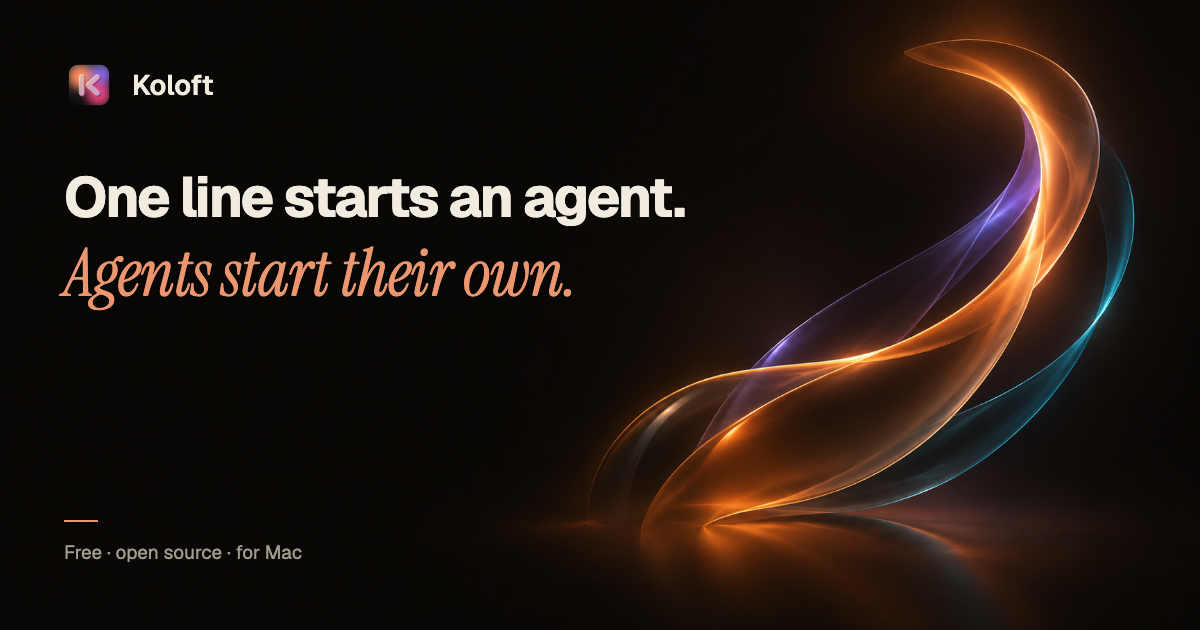
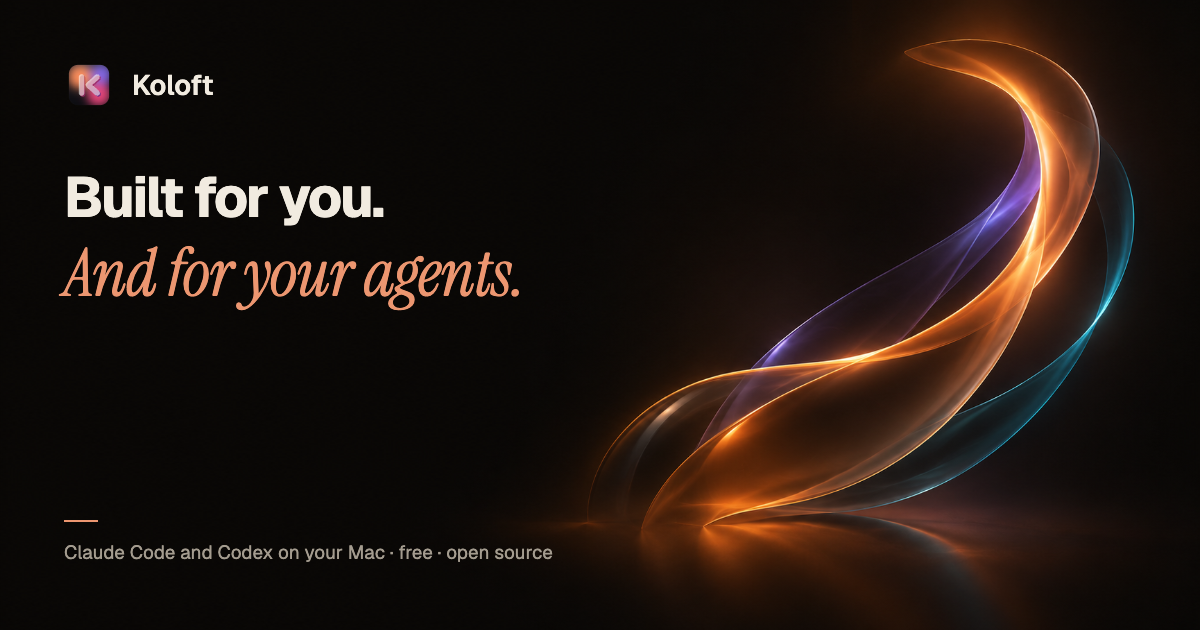
feat(site): headline says Koloft is built for you and for your agents

Changed region(s): [[0.0617, 0.2714, 0.5858, 0.3619], [0.0617, 0.3921, 0.4933, 0.5127], [0.0617, 0.8444, 0.4625, 0.9048]]

diff --git a/site/index.html b/site/index.html
@@ -3,7 +3,7 @@
   <head>
     <meta charset="utf-8" />
     <meta name="viewport" content="width=device-width, initial-scale=1" />
-    <title>Koloft — one line starts an agent; agents start their own</title>
+    <title>Koloft — built for you, and for your agents</title>
     <meta
       name="description"
       content="Free, open-source Mac app for Claude Code and Codex: ⌘P turns one line into a session, agents start their own in a tree you can open, and each gets a terminal, a browser and its changes."
@@ -15,7 +15,7 @@
     <link rel="apple-touch-icon" href="apple-touch-icon.png" />
     <meta property="og:type" content="website" />
     <meta property="og:site_name" content="Koloft" />
-    <meta property="og:title" content="Koloft — one line starts an agent; agents start their own" />
+    <meta property="og:title" content="Koloft — built for you, and for your agents" />
     <meta
       property="og:description"
       content="Free, open-source Mac app for Claude Code and Codex: ⌘P turns one line into a session, agents start their own in a tree you can open, and each gets a terminal, a browser and its changes."
@@ -26,13 +26,10 @@
     <meta property="og:image:height" content="630" />
     <meta
       property="og:image:alt"
-      content="Koloft's icon and the line “One line starts an agent. Agents start their own.” on a dark, glowing background"
+      content="Koloft's icon and the line “Built for you. And for your agents.” on a dark, glowing background"
     />
     <meta name="twitter:card" content="summary_large_image" />
-    <meta
-      name="twitter:title"
-      content="Koloft — one line starts an agent; agents start their own"
-    />
+    <meta name="twitter:title" content="Koloft — built for you, and for your agents" />
     <meta
       name="twitter:description"
       content="Free, open-source Mac app for Claude Code and Codex: ⌘P turns one line into a session, agents start their own in a tree you can open, and each gets a terminal, a browser and its changes."
@@ -92,11 +89,11 @@
         <span class="chip"
           ><span class="pulse"></span>Free · open source · for Apple Silicon Macs</span
         >
-        <h1>One line starts an agent. <span class="grad">Agents start their own.</span></h1>
+        <h1>Built for you. <span class="grad">And for your agents.</span></h1>
         <p class="lede">
-          Koloft runs Claude Code and Codex on your Mac. Every session, yours or one an agent
-          started, sits in one tree with its real terminal, a browser the agent can drive, and every
-          change beside it.
+          Koloft is a free Mac app for Claude Code and Codex. You start a session with one plain
+          sentence and follow it in one window, or hear from it on your phone when it needs you.
+          Your agents start sessions of their own, drive a browser of their own, and report back.
         </p>
         <div class="cta">
           <!-- prettier-ignore -->

diff --git a/site/install/index.html b/site/install/index.html
@@ -26,7 +26,7 @@
     <meta property="og:image:height" content="630" />
     <meta
       property="og:image:alt"
-      content="Koloft's icon and the line “One line starts an agent. Agents start their own.” on a dark, glowing background"
+      content="Koloft's icon and the line “Built for you. And for your agents.” on a dark, glowing background"
     />
     <meta name="twitter:card" content="summary_large_image" />
     <meta name="twitter:title" content="Install, update, what it talks to — Koloft" />

diff --git a/site/accounts/index.html b/site/accounts/index.html
@@ -26,7 +26,7 @@
     <meta property="og:image:height" content="630" />
     <meta
       property="og:image:alt"
-      content="Koloft's icon and the line “One line starts an agent. Agents start their own.” on a dark, glowing background"
+      content="Koloft's icon and the line “Built for you. And for your agents.” on a dark, glowing background"
     />
     <meta name="twitter:card" content="summary_large_image" />
     <meta name="twitter:title" content="Several accounts, one pool — Koloft" />

diff --git a/site/sessions/index.html b/site/sessions/index.html
@@ -26,7 +26,7 @@
     <meta property="og:image:height" content="630" />
     <meta
       property="og:image:alt"
-      content="Koloft's icon and the line “One line starts an agent. Agents start their own.” on a dark, glowing background"
+      content="Koloft's icon and the line “Built for you. And for your agents.” on a dark, glowing background"
     />
     <meta name="twitter:card" content="summary_large_image" />
     <meta name="twitter:title" content="Folders and their sessions — Koloft" />

diff --git a/site/agents/index.html b/site/agents/index.html
@@ -26,7 +26,7 @@
     <meta property="og:image:height" content="630" />
     <meta
       property="og:image:alt"
-      content="Koloft's icon and the line “One line starts an agent. Agents start their own.” on a dark, glowing background"
+      content="Koloft's icon and the line “Built for you. And for your agents.” on a dark, glowing background"
     />
     <meta name="twitter:card" content="summary_large_image" />
     <meta name="twitter:title" content="Agents can use Koloft too — Koloft" />

diff --git a/site/remote/index.html b/site/remote/index.html
@@ -26,7 +26,7 @@
     <meta property="og:image:height" content="630" />
     <meta
       property="og:image:alt"
-      content="Koloft's icon and the line “One line starts an agent. Agents start their own.” on a dark, glowing background"
+      content="Koloft's icon and the line “Built for you. And for your agents.” on a dark, glowing background"
     />
     <meta name="twitter:card" content="summary_large_image" />
     <meta name="twitter:title" content="Remote folders (alpha) — Koloft" />

diff --git a/site/discord/index.html b/site/discord/index.html
@@ -26,7 +26,7 @@
     <meta property="og:image:height" content="630" />
     <meta
       property="og:image:alt"
-      content="Koloft's icon and the line “One line starts an agent. Agents start their own.” on a dark, glowing background"
+      content="Koloft's icon and the line “Built for you. And for your agents.” on a dark, glowing background"
     />
     <meta name="twitter:card" content="summary_large_image" />
     <meta name="twitter:title" content="A butler on Discord — Koloft" />

diff --git a/site/scheduled/index.html b/site/scheduled/index.html
@@ -26,7 +26,7 @@
     <meta property="og:image:height" content="630" />
     <meta
       property="og:image:alt"
-      content="Koloft's icon and the line “One line starts an agent. Agents start their own.” on a dark, glowing background"
+      content="Koloft's icon and the line “Built for you. And for your agents.” on a dark, glowing background"
     />
     <meta name="twitter:card" content="summary_large_image" />
     <meta name="twitter:title" content="Sessions on a timer — Koloft" />

diff --git a/site/workbench/index.html b/site/workbench/index.html
@@ -26,7 +26,7 @@
     <meta property="og:image:height" content="630" />
     <meta
       property="og:image:alt"
-      content="Koloft's icon and the line “One line starts an agent. Agents start their own.” on a dark, glowing background"
+      content="Koloft's icon and the line “Built for you. And for your agents.” on a dark, glowing background"
     />
     <meta name="twitter:card" content="summary_large_image" />
     <meta name="twitter:title" content="The Workbench — Koloft" />

diff --git a/site/changelog/index.html b/site/changelog/index.html
@@ -26,7 +26,7 @@
     <meta property="og:image:height" content="630" />
     <meta
       property="og:image:alt"
-      content="Koloft's icon and the line “One line starts an agent. Agents start their own.” on a dark, glowing background"
+      content="Koloft's icon and the line “Built for you. And for your agents.” on a dark, glowing background"
     />
     <meta name="twitter:card" content="summary_large_image" />
     <meta name="twitter:title" content="Changelog — Koloft" />

diff --git a/site/features/index.html b/site/features/index.html
@@ -26,7 +26,7 @@
     <meta property="og:image:height" content="630" />
     <meta
       property="og:image:alt"
-      content="Koloft's icon and the line “One line starts an agent. Agents start their own.” on a dark, glowing background"
+      content="Koloft's icon and the line “Built for you. And for your agents.” on a dark, glowing background"
     />
     <meta name="twitter:card" content="summary_large_image" />
     <meta name="twitter:image" content="__SITE_URL__/og.png" />
